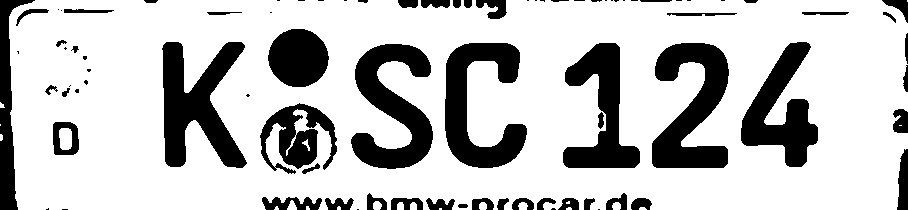
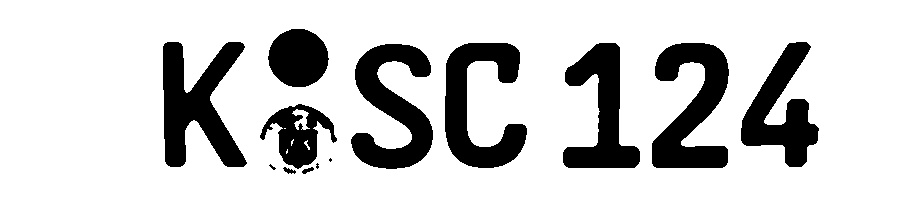
Improve plate image masking to better isolate plate area

diff --git a/src/pigarage/ocr_detector.py b/src/pigarage/ocr_detector.py
@@ -21,7 +21,7 @@ logging.addLevelName(TRACE, "TRACE")
 def cv2_improve_plate_img(
     plate: cv2.typing.MatLike,
     blur: int = 5,
-    block_size: int = 99,
+    block_size: int = 151,
     c: float = 2,
     min_plate_area: float = 0.5,
 ) -> cv2.typing.MatLike | None:
@@ -74,6 +74,15 @@ def cv2_improve_plate_img(
         color=(0, 0, 0),
         thickness=cv2.FILLED,
     )
+    # Remove everything outside the largest contour (the plate)
+    plate_background = cv2.drawContours(
+        np.zeros(thresh.shape).astype(thresh.dtype),
+        [contours[idxs[0]]],
+        -1,
+        color=(255, 255, 255),
+        thickness=cv2.FILLED,
+    )
+    masked = cv2.bitwise_or(masked, cv2.bitwise_not(plate_background))
     if VISUAL_DEBUG:
         cv2.imshow("masked", masked)
         cv2.waitKey(0)
@@ -90,18 +99,22 @@ def plate2text(plate: cv2.typing.MatLike, reader: easyocr.Reader | None = None) 
         slope_ths=0.01,
         add_margin=0,
     )
-    filtered = " ".join(
-        text
-        for _, text in sorted(
-            (
-                (box, text)
-                for box, text, _confidence in result
-                # Drop all results with low height
-                if abs(box[-1][1] - box[0][1]) > 0.5 * plate.shape[0]
-            ),
-            key=lambda x: x[0][0][0],  # Sort by x coordinate
+    filtered = (
+        " ".join(
+            text
+            for _, text in sorted(
+                (
+                    (box, text)
+                    for box, text, _confidence in result
+                    # Drop all results with low height
+                    if abs(box[-1][1] - box[0][1]) > 0.3 * plate.shape[0]
+                ),
+                key=lambda x: x[0][0][0],  # Sort by x coordinate
+            )
         )
-    ).replace("o", " ")
+        .replace("o", " ")
+        .replace(".", " ")
+    )
     logging.getLogger(__name__).debug(f"OCR result: {result} => {filtered}")
     return filtered
 

diff --git a/README.md b/README.md
@@ -94,12 +94,8 @@ sequenceDiagram
 
 ### OcrDetector Preprocessing Steps
 
-In order to improve OCR accuracy, the following preprocessing steps are applied to the plate crops before passing them to EasyOCR:
-
-1. Mask non-plate areas to focus on text and reduce to black and white
-   (See [./src/pi_garage/ocr_detector.py::cv2_mask_non_plate](./src/pi_garage/ocr_detector.py))
-2. Fix perspective distortion
-   (See [./src/pi_garage/ocr_detector.py::cv2_fix_perspective](./src/pi_garage/ocr_detector.py))
+In order to improve OCR accuracy, non-plate areas are masked to focus on text and reduce to black and white.
+(See [./src/pi_garage/ocr_detector.py::cv2_mask_non_plate](./src/pi_garage/ocr_detector.py))
 
 
 ## Example of image processing pipeline
@@ -113,7 +109,7 @@ In order to improve OCR accuracy, the following preprocessing steps are applied 
 3. Masked non-plate areas (`pigarage-ocr-detector improve ./docs/plate-crop.jpg --output ./docs/plate-masked.jpg`):
    ![Masked Plate](docs/plate-masked.jpg)
 
-4. EasyOCR Result (`pigarage-ocr-detector ocr ./docs/plate-crop.jpg`):
+4. EasyOCR Result (`pigarage-ocr-detector ocr ./docs/plate-masked.jpg`):
    ```
    K SC 124
    ```
